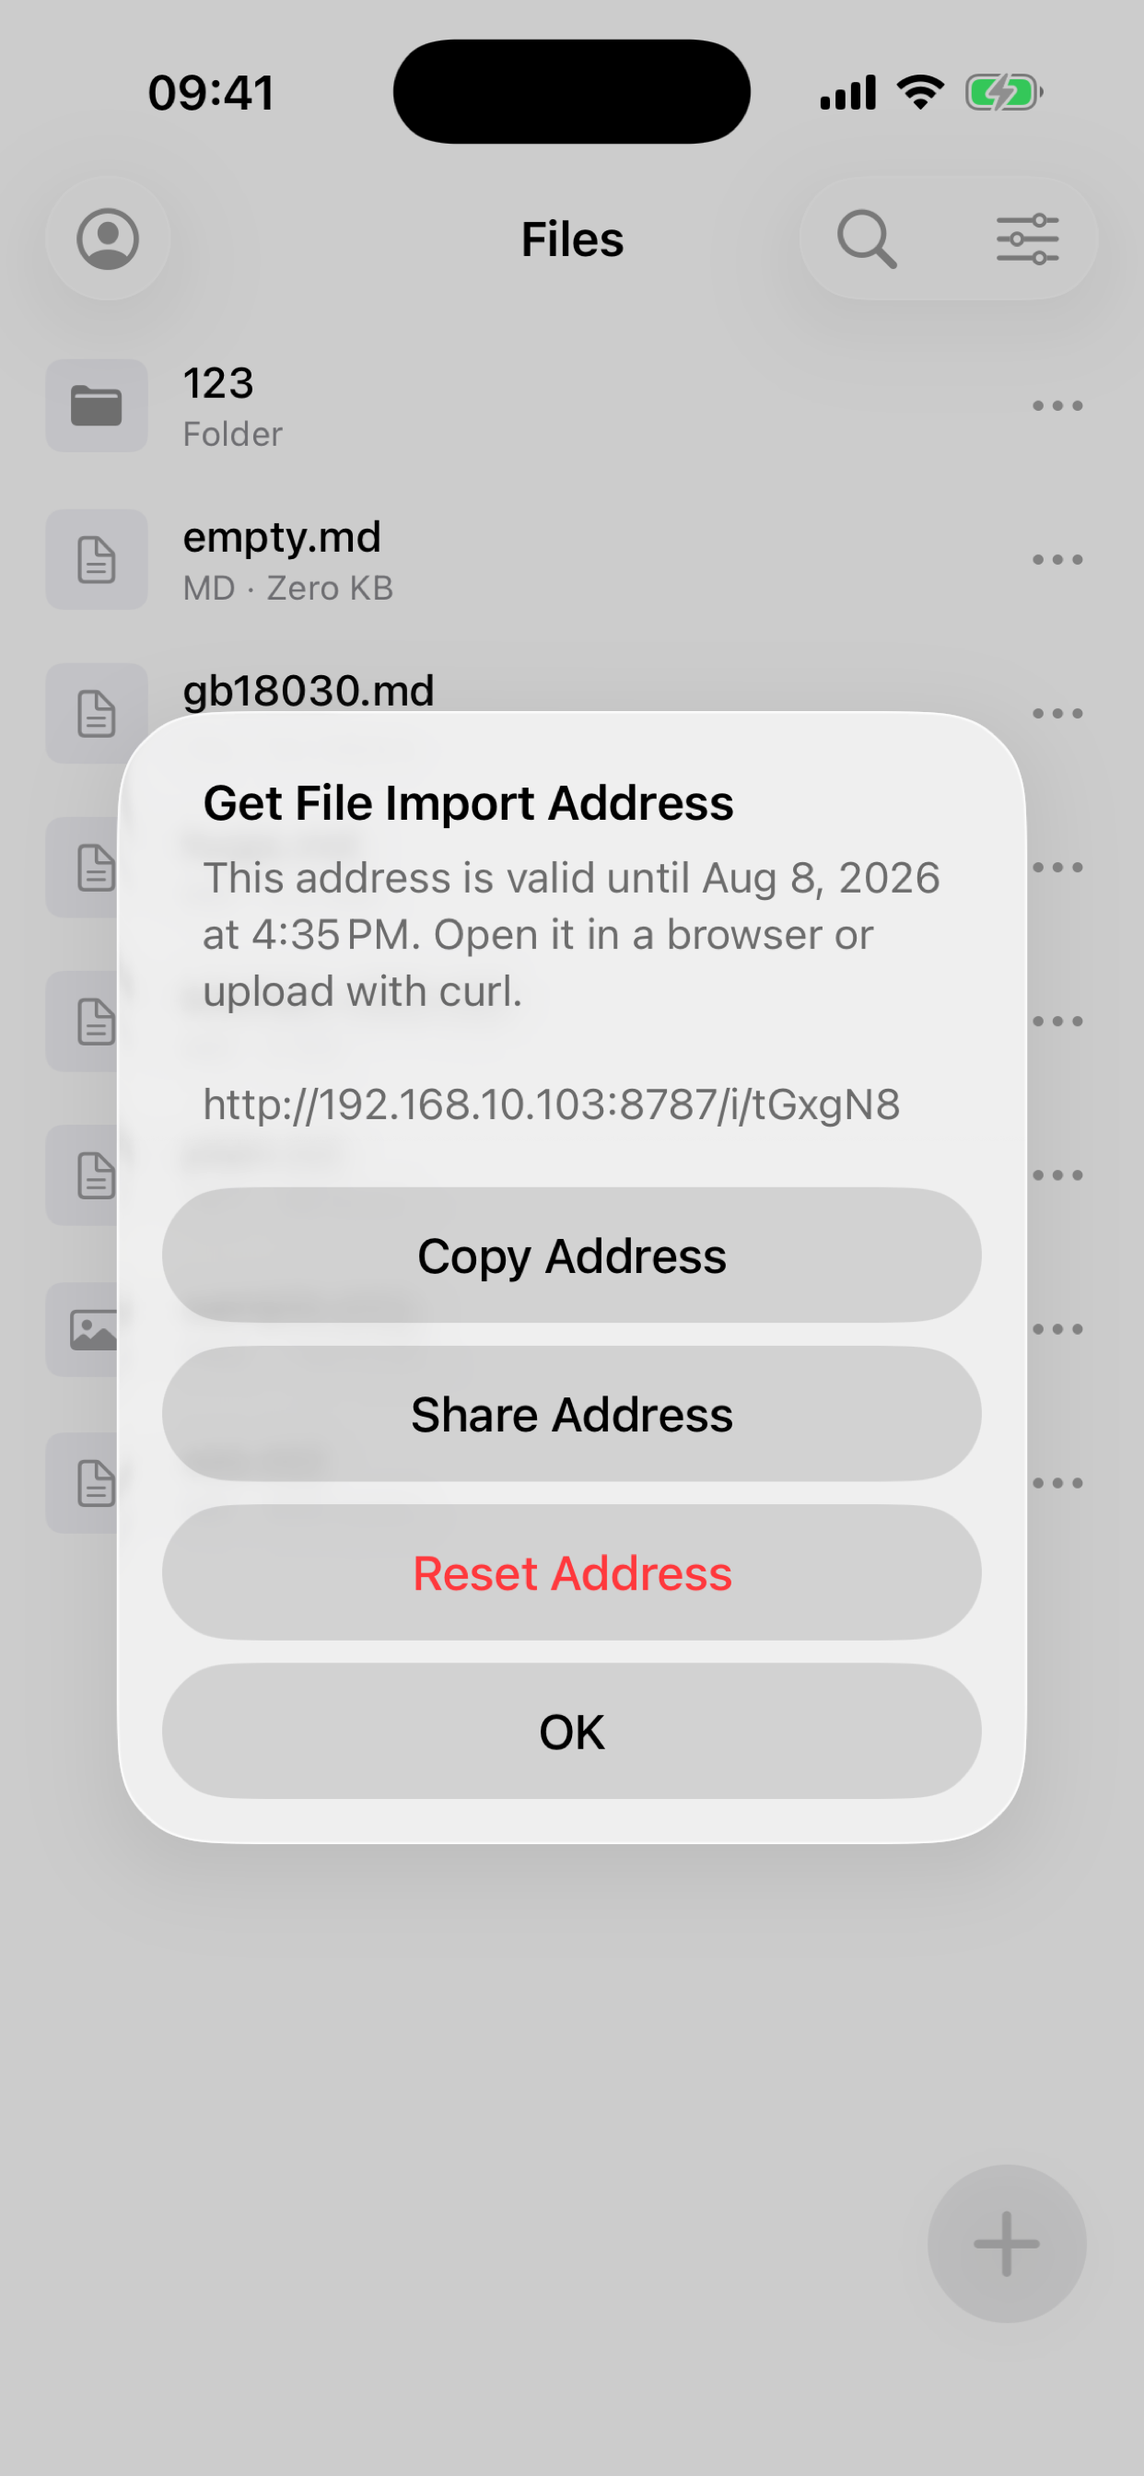
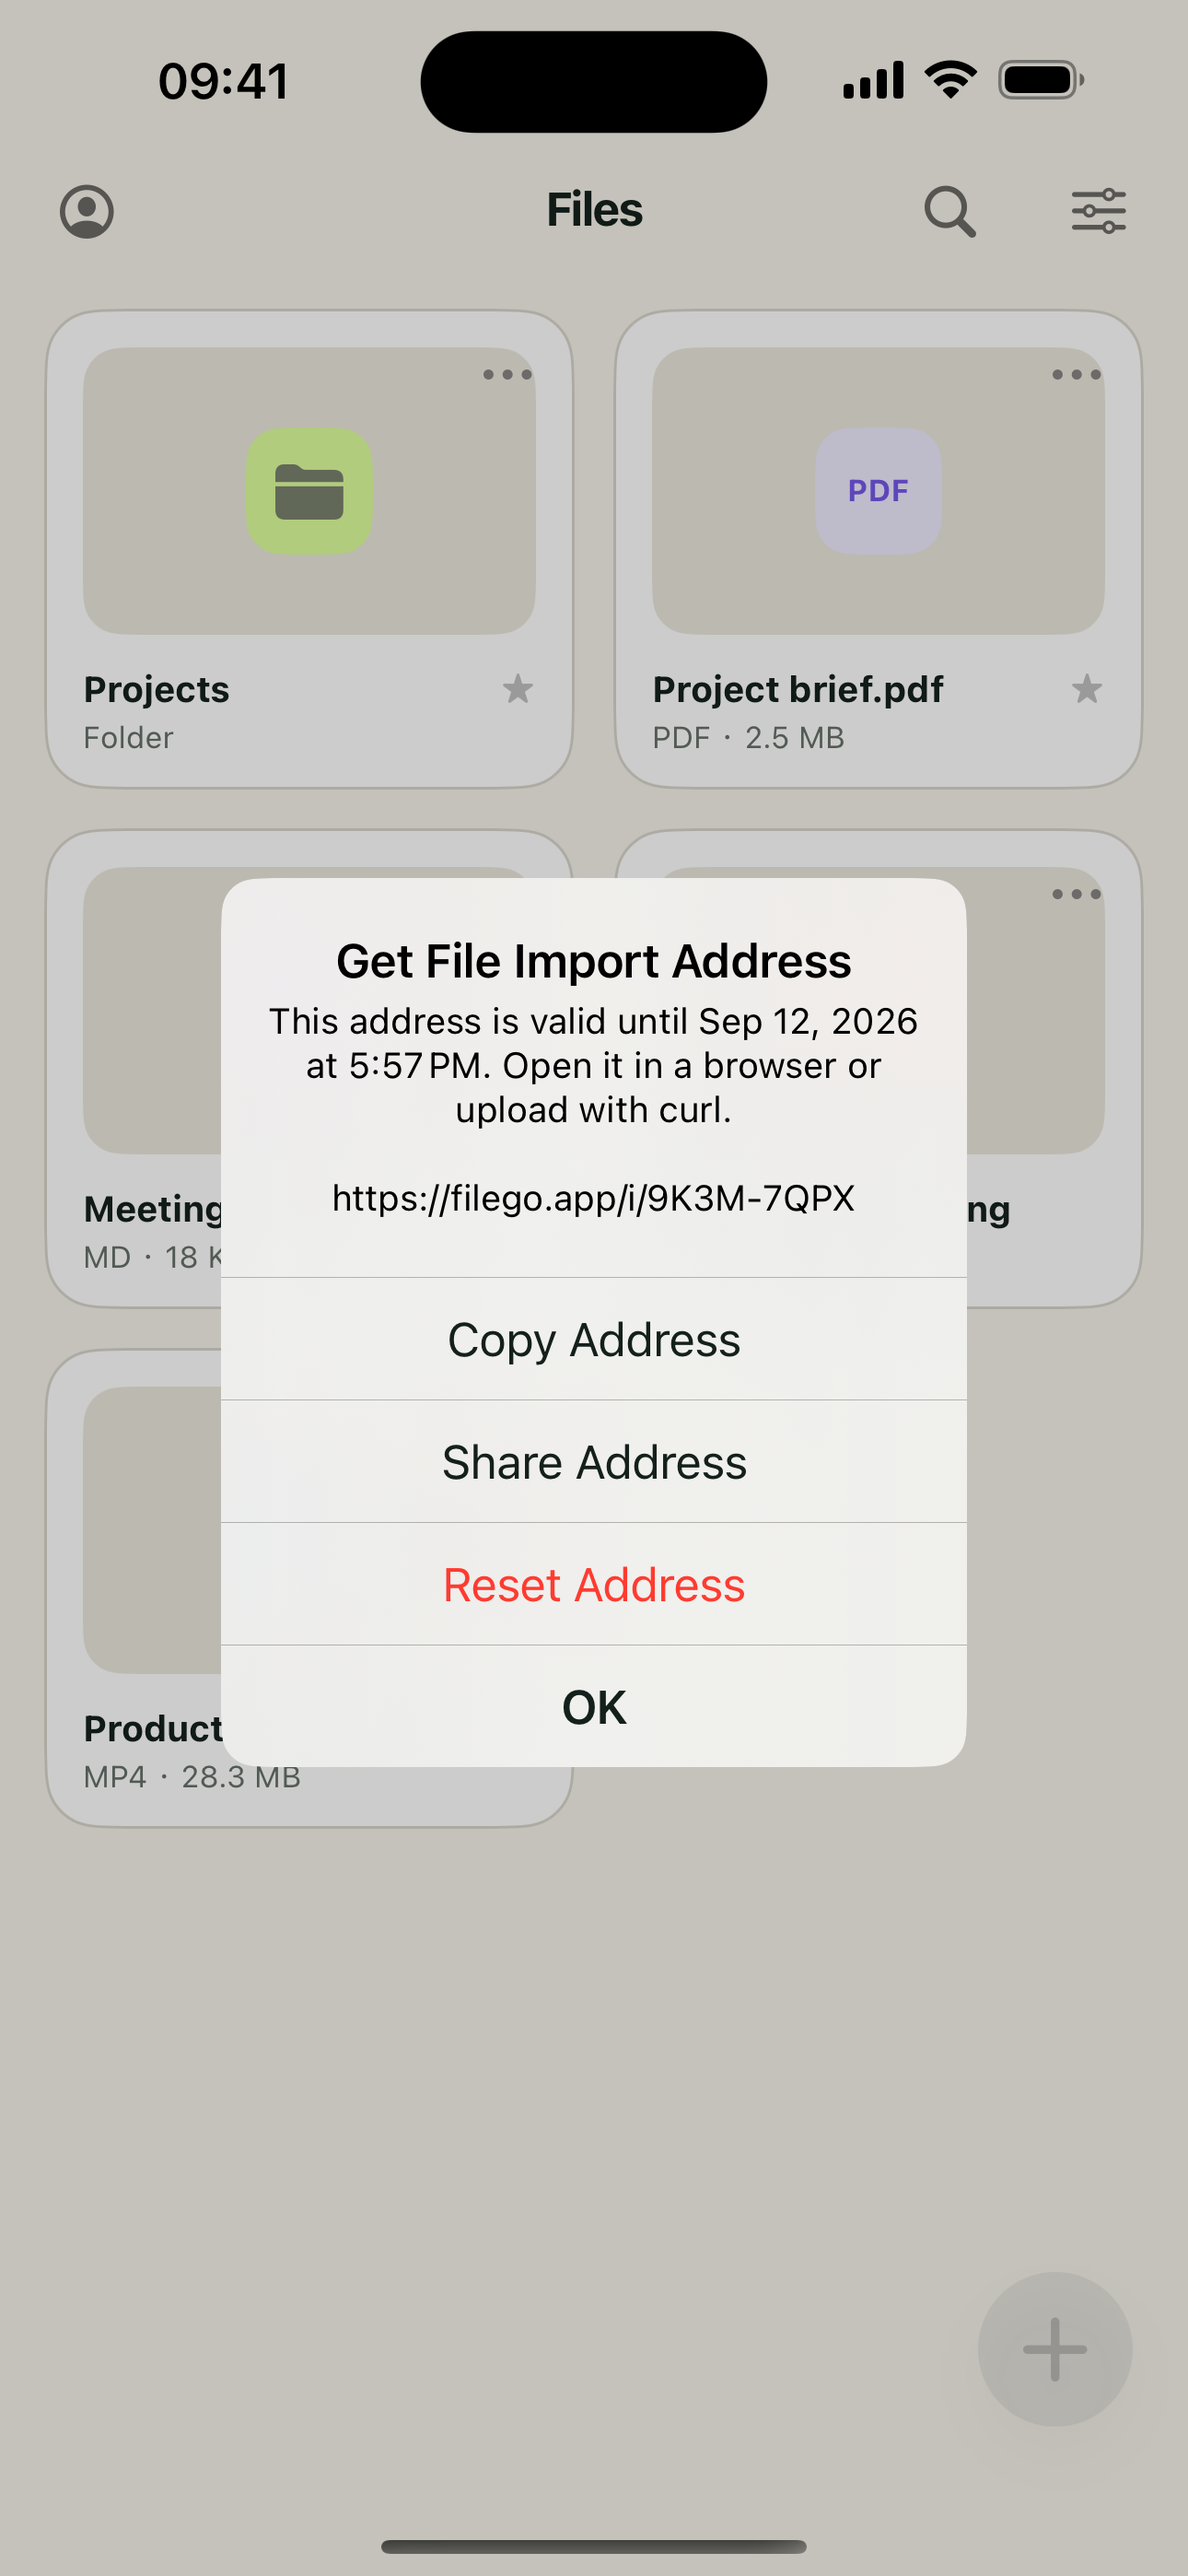
截图信息变更

diff --git a/fastlane/screenshots/README.md b/fastlane/screenshots/README.md
@@ -1,17 +1,16 @@
 # App Store screenshots
 
-Export iPhone screenshots at **1242 × 2688**, one of the dimensions accepted by the
-App Store Connect 6.5-inch slot. Save each localized set in `en-US/`, `zh-Hans/`,
-and `zh-Hant/` with numeric filenames (`01.png` … `05.png`). The app currently
+Export iPhone screenshots at **1290 × 2796**, one of the dimensions accepted by the
+App Store Connect 6.7-inch slot. Save each localized set in `en-US/`, `zh-Hans/`,
+and `zh-Hant/` with numeric filenames (`01.png` … `04.png`). The app currently
 falls back to English on Traditional Chinese systems, so `zh-Hant` deliberately
 reuses the English screenshots.
 
 | # | Screen | en-US | zh-Hans | zh-Hant |
 |---|---|---|---|---|
 | 1 | Import-address dialog with the link visible | Send them a link. Get their files. | 发条链接，文件自己就来了 | English fallback |
-| 2 | Expanded add menu | Add from anywhere. | 拍照、相册、文件，都能进来 | English fallback |
+| 2 | File grid | See every file clearly. | 文件一目了然 | English fallback |
 | 3 | File list | Everything in one place. | 文件都在一个地方 | English fallback |
-| 4 | Account and storage drawer | Space and account at a glance. | 空间和账号，一眼看清 | English fallback |
-| 5 | Pro paywall | 50 GB, flexible links, 5 GB direct uploads. | 50 GB、灵活有效期、单文件 5 GB 直传 | English fallback |
+| 4 | Pro paywall | 50 GB, flexible links, 5 GB direct uploads. | 50 GB、灵活有效期、单文件 5 GB 直传 | English fallback |
 
-For screenshot 5, select `filego/Resources/FileGo.storekit` under Scheme → Run → Options → StoreKit Configuration before launching the app.
+For screenshot 4, select `filego/Resources/FileGo.storekit` under Scheme → Run → Options → StoreKit Configuration before launching the app.
